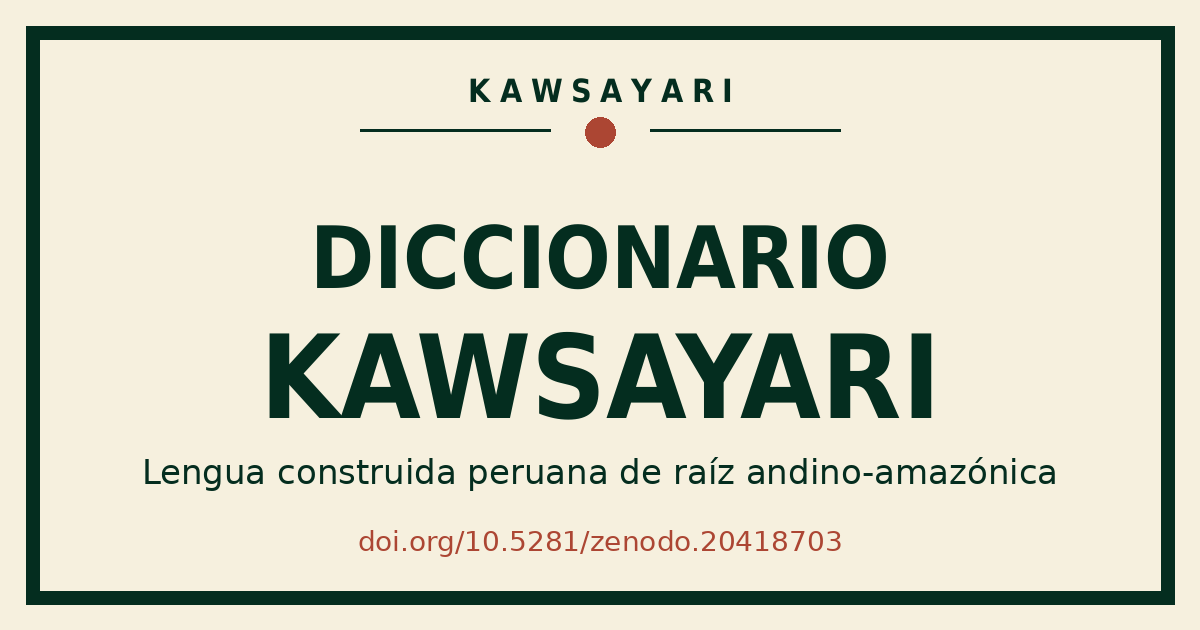
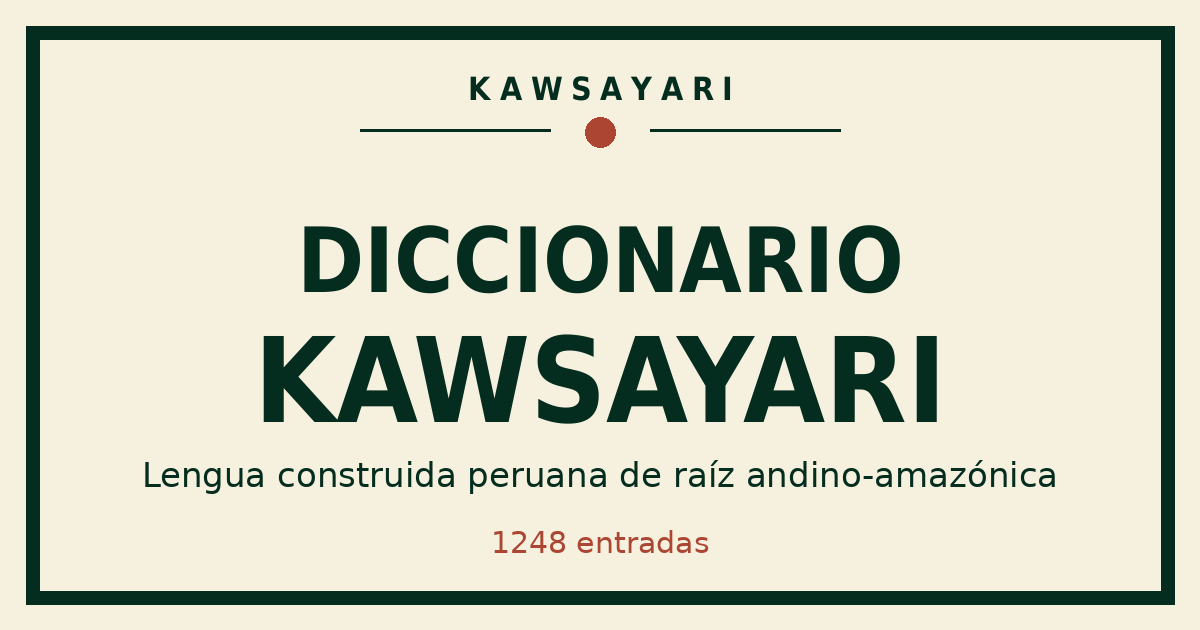
Corrección final del diccionario completo

diff --git a/assets/style.css b/assets/style.css
@@ -1,44 +1,51 @@
 
-:root{--green:#042d1f;--cream:#f6f0de;--paper:#fffaf0;--red:#ac4633;--muted:#69766e}
+:root{--green:#042d1f;--cream:#f6f0de;--paper:#fffaf0;--red:#ac4633;--muted:#69766e;--line:rgba(4,45,31,.20)}
 *{box-sizing:border-box}
 html{scroll-behavior:smooth}
 body{margin:0;background:var(--cream);color:var(--green);font-family:Inter,ui-sans-serif,system-ui,-apple-system,BlinkMacSystemFont,"Segoe UI",Arial,sans-serif;line-height:1.55}
 body:before{content:"";position:fixed;inset:0;pointer-events:none;background:radial-gradient(circle at 60% 0%,rgba(172,70,51,.05),transparent 32%),linear-gradient(rgba(4,45,31,.025) 1px,transparent 1px);background-size:auto,100% 72px}
 a{color:var(--green);text-underline-offset:4px}
-.wrap{width:min(1060px,calc(100% - 36px));margin:0 auto}
-.header{position:sticky;top:0;z-index:20;background:rgba(246,240,222,.92);backdrop-filter:blur(14px);border-bottom:1px solid rgba(4,45,31,.14)}
+.wrap{width:min(1120px,calc(100% - 36px));margin:0 auto}
+.header{position:sticky;top:0;z-index:20;background:rgba(246,240,222,.94);backdrop-filter:blur(14px);border-bottom:1px solid rgba(4,45,31,.14)}
 .nav{min-height:72px;display:flex;justify-content:space-between;align-items:center;gap:20px}
 .brand{text-decoration:none;font-weight:900;letter-spacing:.23em;font-size:15px}
 .navlinks{display:flex;gap:22px;align-items:center;font-size:14px;font-weight:700}
 .navlinks a{text-decoration:none}
 .btn{display:inline-flex;justify-content:center;align-items:center;min-height:44px;padding:0 18px;border:2px solid var(--green);background:var(--green);color:var(--cream);text-decoration:none;font-weight:850}
 .btn.secondary{background:transparent;color:var(--green)}
-.hero{min-height:calc(100vh - 72px);display:grid;place-items:center;padding:58px 0}
-.poster{width:min(720px,100%);min-height:780px;border:18px solid var(--green);background:var(--cream);padding:54px 34px 46px;text-align:center;display:flex;flex-direction:column;justify-content:space-between;box-shadow:0 24px 80px rgba(4,45,31,.08)}
+.hero{padding:78px 0 64px}
+.poster{border:18px solid var(--green);background:var(--cream);padding:56px 34px 52px;text-align:center;box-shadow:0 24px 80px rgba(4,45,31,.08)}
 .kicker{font-size:14px;letter-spacing:.34em;font-weight:900;text-transform:uppercase}
 .rule{width:min(520px,72%);height:1px;background:var(--green);margin:22px auto;position:relative}
 .rule:after{content:"";width:13px;height:13px;background:var(--red);border-radius:50%;position:absolute;left:50%;top:50%;transform:translate(-50%,-50%);box-shadow:0 0 0 11px var(--cream)}
-.hero-title{font-size:clamp(52px,12vw,126px);line-height:.9;letter-spacing:-.055em;text-transform:uppercase;margin:50px 0 18px;font-weight:950}
-.hero-title .num{display:block;font-size:1.25em}
-.hero-sub{font-size:clamp(18px,3vw,30px);max-width:560px;margin:30px auto 0}
-.emblem{width:220px;height:220px;border:8px solid var(--green);border-radius:50%;margin:46px auto 22px;position:relative;overflow:hidden}
-.emblem:before{content:"";position:absolute;inset:16px 50% 16px 16px;background:var(--green);border-radius:200px 0 0 200px}
-.emblem:after{content:"";position:absolute;width:52px;height:52px;background:var(--cream);border:18px solid var(--green);border-radius:50%;left:50%;top:50%;transform:translate(-50%,-50%)}
-.emblem .bar{position:absolute;height:10px;background:var(--green);left:42px;right:42px;top:104px}
-.section{padding:86px 0;border-top:1px solid rgba(4,45,31,.15)}
+.hero-title{font-size:clamp(58px,12vw,132px);line-height:.9;letter-spacing:-.055em;text-transform:uppercase;margin:52px 0 24px;font-weight:950}
+.hero-sub{font-size:clamp(18px,3vw,30px);max-width:760px;margin:0 auto}
+.meta{display:grid;grid-template-columns:repeat(3,1fr);gap:1px;border:1px solid var(--line);background:var(--line);margin-top:46px;text-align:left}
+.meta div{background:var(--paper);padding:18px}
+.meta span{display:block;color:var(--muted);font-size:12px;text-transform:uppercase;letter-spacing:.12em;font-weight:850}
+.meta strong{font-size:20px}
+.section{padding:78px 0;border-top:1px solid rgba(4,45,31,.15)}
 .grid{display:grid;grid-template-columns:.85fr 1.15fr;gap:62px;align-items:start}
 h1,h2,h3{letter-spacing:-.045em;line-height:1}
 h2{font-size:clamp(40px,5vw,72px);margin:0 0 18px;text-transform:uppercase}
+h3{font-size:clamp(25px,3vw,38px);margin:40px 0 14px}
 .lead{font-size:clamp(19px,2.1vw,25px);max-width:760px}
-.card{background:var(--paper);border:1px solid rgba(4,45,31,.20);padding:30px}
-.words{display:grid;gap:0;border-top:1px solid rgba(4,45,31,.2)}
-.word{display:grid;grid-template-columns:220px 1fr;gap:22px;padding:22px 0;border-bottom:1px solid rgba(4,45,31,.2)}
-.word b{display:block;font-size:34px;line-height:1;letter-spacing:-.05em;text-transform:uppercase}
-.word small{display:block;color:var(--red);margin-top:8px;font-weight:800}
-.word p{margin:0}
-.footer{background:var(--green);color:var(--cream);padding:42px 0}
-.footer a{color:var(--cream)}
+.card{background:var(--paper);border:1px solid var(--line);padding:30px}
+.searchbar{position:sticky;top:72px;z-index:15;background:rgba(246,240,222,.96);border-top:1px solid var(--line);border-bottom:1px solid var(--line);padding:18px 0}
+.searchbox{display:grid;grid-template-columns:1fr auto;gap:12px}
+input[type="search"]{width:100%;min-height:52px;border:2px solid var(--green);background:var(--paper);color:var(--green);font-size:18px;padding:0 16px;font:inherit}
+.count{display:flex;align-items:center;justify-content:center;min-width:140px;border:2px solid var(--green);font-weight:900;background:var(--green);color:var(--cream)}
+.alpha{display:flex;flex-wrap:wrap;gap:7px;margin-top:14px}
+.alpha a{font-size:13px;font-weight:850;text-decoration:none;border:1px solid var(--line);padding:5px 8px;background:var(--paper)}
+.table-wrap{overflow:auto;border:1px solid var(--line);background:var(--paper)}
 table{width:100%;border-collapse:collapse;background:var(--paper)}
-th,td{border:1px solid rgba(4,45,31,.22);padding:14px 16px;text-align:left;vertical-align:top}
-th{background:var(--green);color:var(--cream)}
-@media(max-width:780px){.nav{padding:16px 0;align-items:flex-start}.navlinks{display:none}.poster{min-height:760px;border-width:14px}.hero-title{font-size:72px}.grid{grid-template-columns:1fr;gap:32px}.word{grid-template-columns:1fr}.section{padding:58px 0}}
+th,td{border-bottom:1px solid var(--line);padding:12px 14px;text-align:left;vertical-align:top}
+th{background:var(--green);color:var(--cream);position:sticky;top:0}
+td.term{font-weight:850;white-space:nowrap}
+.category-title{border-top:2px solid var(--green);padding-top:22px}
+.footer{background:var(--green);color:var(--cream);padding:42px 0;margin-top:40px}
+.footer a{color:var(--cream)}
+.small{font-size:13px;color:var(--muted)}
+@media(max-width:780px){
+  .nav{padding:16px 0}.navlinks{display:none}.poster{border-width:14px}.hero-title{font-size:72px}.grid{grid-template-columns:1fr;gap:32px}.section{padding:54px 0}.meta{grid-template-columns:1fr}.searchbox{grid-template-columns:1fr}.count{min-height:44px}.searchbar{top:0}td.term{white-space:normal}
+}

diff --git a/index.html b/index.html
@@ -1,18 +1,27 @@
 <!doctype html>
 <html lang="es"><head>
 <meta charset="utf-8"><meta name="viewport" content="width=device-width,initial-scale=1">
-<title>Diccionario Kawsayari: lengua construida peruana de raíz andino-amazónica</title><meta name="description" content="Kawsayari es una lengua construida peruana de raíz andino-amazónica, creada como obra cultural, lingüística y editorial por Adrián Fernando Campos Velit."><meta name="author" content="Adrián Fernando Campos Velit">
+<title>Diccionario Kawsayari: lengua construida peruana de raíz andino-amazónica</title><meta name="description" content="Diccionario Kawsayari, lengua construida peruana de raíz andino-amazónica, creada como obra cultural, lingüística y editorial por Adrián Fernando Campos Velit."><meta name="author" content="Adrián Fernando Campos Velit">
 <meta name="robots" content="index,follow,max-image-preview:large"><link rel="canonical" href="https://kawsayari.github.io/">
-<meta property="og:title" content="Diccionario Kawsayari: lengua construida peruana de raíz andino-amazónica"><meta property="og:description" content="Kawsayari es una lengua construida peruana de raíz andino-amazónica, creada como obra cultural, lingüística y editorial por Adrián Fernando Campos Velit."><meta property="og:type" content="website"><meta property="og:url" content="https://kawsayari.github.io/"><meta property="og:image" content="https://kawsayari.github.io/assets/og-kawsayari.png">
+<meta property="og:title" content="Diccionario Kawsayari: lengua construida peruana de raíz andino-amazónica"><meta property="og:description" content="Diccionario Kawsayari, lengua construida peruana de raíz andino-amazónica, creada como obra cultural, lingüística y editorial por Adrián Fernando Campos Velit."><meta property="og:type" content="website"><meta property="og:url" content="https://kawsayari.github.io/"><meta property="og:image" content="https://kawsayari.github.io/assets/og-kawsayari.png">
 <meta name="twitter:card" content="summary_large_image"><link rel="icon" href="assets/favicon.svg" type="image/svg+xml"><link rel="apple-touch-icon" href="assets/icon.png"><link rel="stylesheet" href="assets/style.css">
-<script type="application/ld+json">{"@context": "https://schema.org", "@type": "Book", "name": "Diccionario Kawsayari: lengua construida peruana de raíz andino-amazónica", "alternateName": ["Kawsayari", "Diccionario Kawsayari"], "description": "Kawsayari es una lengua construida peruana de raíz andino-amazónica, creada como obra cultural, lingüística y editorial por Adrián Fernando Campos Velit.", "author": {"@type": "Person", "name": "Adrián Fernando Campos Velit"}, "creator": {"@type": "Person", "name": "Adrián Fernando Campos Velit"}, "publisher": {"@type": "Person", "name": "Adrián Fernando Campos Velit"}, "datePublished": "2026-05-27", "inLanguage": "es", "genre": ["Diccionario", "Lengua construida", "Conlang", "Cultura peruana"], "license": "https://creativecommons.org/licenses/by/4.0/", "identifier": "https://doi.org/10.5281/zenodo.20418703", "url": "https://kawsayari.github.io/", "image": "https://kawsayari.github.io/assets/og-kawsayari.png"}</script></head><body>
-<header class="header"><div class="wrap nav"><a class="brand" href="index.html">KAWSAYARI</a><nav class="navlinks" aria-label="Navegación"><a href="index.html">Inicio</a><a href="diccionario.html">Diccionario</a><a href="manifiesto.html">Manifiesto</a><a href="citar.html">Citar</a><a class="btn" href="https://doi.org/10.5281/zenodo.20418703">DOI oficial</a></nav></div></header><main>
-<section class="hero"><div class="poster"><div><div class="kicker">Kawsayari</div><div class="rule"></div><h1 class="hero-title"><span class="num">5</span>Palabras<br>Básicas</h1><p class="hero-sub">Lengua construida peruana de raíz andino-amazónica</p></div><div><div class="emblem"><span class="bar"></span></div><p><a class="btn" href="https://doi.org/10.5281/zenodo.20418703">Abrir publicación oficial</a></p></div></div></section>
-<section class="section"><div class="wrap grid"><div><h2>Libro formal</h2><p class="lead">Diccionario Kawsayari es una publicación cultural y lingüística con DOI, ficha editorial, manifiesto y diccionario.</p></div><div class="card"><p><strong>Autor:</strong> Adrián Fernando Campos Velit</p><p><strong>DOI:</strong> <a href="https://doi.org/10.5281/zenodo.20418703">https://doi.org/10.5281/zenodo.20418703</a></p><p><strong>Licencia:</strong> Creative Commons Attribution 4.0 International.</p><p><strong>Alcance:</strong> lengua construida peruana de carácter intercultural; no sustituye ni representa oficialmente ninguna lengua originaria existente.</p></div></div></section>
-<section class="section"><div class="wrap"><h2>Palabras básicas</h2><div class="words">
-<div class="word"><div><b>Kawsayari</b><small>[kau-sa-ya-ri]</small></div><p>Vida que habla; voz de vida, territorio y comunidad.</p></div>
-<div class="word"><div><b>Sumaq</b><small>[su-maq]</small></div><p>Bello, bueno, armonioso; aquello que se percibe con belleza y equilibrio.</p></div>
-<div class="word"><div><b>Yaku</b><small>[ya-ku]</small></div><p>Agua; elemento vital, memoria del río y fuerza de la naturaleza.</p></div>
-<div class="word"><div><b>Llaqta</b><small>[lya-qta]</small></div><p>Ciudad, pueblo o comunidad; espacio colectivo donde se comparte vida.</p></div>
-<div class="word"><div><b>Sonqo</b><small>[son-qo]</small></div><p>Corazón; centro emocional, ánimo y fuerza interior.</p></div>
-</div></div></section></main><footer class="footer"><div class="wrap"><strong>KAWSAYARI</strong><p>Lengua construida peruana de raíz andino-amazónica. Obra de Adrián Fernando Campos Velit. DOI oficial: <a href="https://doi.org/10.5281/zenodo.20418703">https://doi.org/10.5281/zenodo.20418703</a>.</p></div></footer></body></html>
+<script type="application/ld+json">{"@context": "https://schema.org", "@type": "Book", "name": "Diccionario Kawsayari: lengua construida peruana de raíz andino-amazónica", "alternateName": ["Kawsayari", "Diccionario Kawsayari"], "description": "Diccionario Kawsayari, lengua construida peruana de raíz andino-amazónica, creada como obra cultural, lingüística y editorial por Adrián Fernando Campos Velit.", "author": {"@type": "Person", "name": "Adrián Fernando Campos Velit"}, "creator": {"@type": "Person", "name": "Adrián Fernando Campos Velit"}, "publisher": {"@type": "Person", "name": "Adrián Fernando Campos Velit"}, "datePublished": "2026-05-27", "inLanguage": "es", "genre": ["Diccionario", "Lengua construida", "Conlang", "Cultura peruana"], "license": "https://creativecommons.org/licenses/by/4.0/", "identifier": "https://doi.org/10.5281/zenodo.20418703", "url": "https://kawsayari.github.io/", "image": "https://kawsayari.github.io/assets/og-kawsayari.png"}</script></head><body>
+<header class="header"><div class="wrap nav"><a class="brand" href="index.html">KAWSAYARI</a><nav class="navlinks" aria-label="Navegación"><a href="index.html">Inicio</a><a href="diccionario.html">Diccionario completo</a><a href="manifiesto.html">Manifiesto</a><a href="citar.html">Citar</a><a class="btn" href="https://doi.org/10.5281/zenodo.20418703">DOI oficial</a></nav></div></header><main>
+<section class="hero">
+  <div class="wrap">
+    <div class="poster">
+      <div class="kicker">Kawsayari</div>
+      <div class="rule"></div>
+      <h1 class="hero-title">Diccionario<br>Kawsayari</h1>
+      <p class="hero-sub">Lengua construida peruana de raíz andino-amazónica</p>
+      <div class="meta">
+        <div><span>Autor</span><strong>Adrián Fernando Campos Velit</strong></div>
+        <div><span>Entradas</span><strong>1248</strong></div>
+        <div><span>Registro</span><strong>DOI oficial</strong></div>
+      </div>
+      <p style="margin-top:30px"><a class="btn" href="diccionario.html">Ver diccionario completo</a> <a class="btn secondary" href="https://doi.org/10.5281/zenodo.20418703">Abrir publicación oficial</a></p>
+    </div>
+  </div>
+</section>
+<section class="section"><div class="wrap grid"><div><h2>Obra formal</h2><p class="lead">Kawsayari es una lengua construida peruana de carácter intercultural, creada como obra cultural, lingüística y editorial.</p></div><div class="card"><p>El sitio reúne el diccionario completo en una versión web limpia, legible e indexable, con términos originales y significados organizados por campos semánticos.</p><p><strong>DOI:</strong> <a href="https://doi.org/10.5281/zenodo.20418703">https://doi.org/10.5281/zenodo.20418703</a></p></div></div></section>
+</main><footer class="footer"><div class="wrap"><strong>KAWSAYARI</strong><p>Lengua construida peruana de raíz andino-amazónica. Obra de Adrián Fernando Campos Velit. DOI oficial: <a href="https://doi.org/10.5281/zenodo.20418703">https://doi.org/10.5281/zenodo.20418703</a>.</p></div></footer></body></html>

diff --git a/manifiesto.html b/manifiesto.html
@@ -1,11 +1,11 @@
 <!doctype html>
 <html lang="es"><head>
 <meta charset="utf-8"><meta name="viewport" content="width=device-width,initial-scale=1">
-<title>Manifiesto Kawsayari</title><meta name="description" content="Declaración de alcance y manifiesto breve del proyecto Kawsayari."><meta name="author" content="Adrián Fernando Campos Velit">
+<title>Manifiesto Kawsayari</title><meta name="description" content="Declaración de alcance y manifiesto breve de Kawsayari."><meta name="author" content="Adrián Fernando Campos Velit">
 <meta name="robots" content="index,follow,max-image-preview:large"><link rel="canonical" href="https://kawsayari.github.io/manifiesto.html">
-<meta property="og:title" content="Manifiesto Kawsayari"><meta property="og:description" content="Declaración de alcance y manifiesto breve del proyecto Kawsayari."><meta property="og:type" content="website"><meta property="og:url" content="https://kawsayari.github.io/manifiesto.html"><meta property="og:image" content="https://kawsayari.github.io/assets/og-kawsayari.png">
+<meta property="og:title" content="Manifiesto Kawsayari"><meta property="og:description" content="Declaración de alcance y manifiesto breve de Kawsayari."><meta property="og:type" content="website"><meta property="og:url" content="https://kawsayari.github.io/manifiesto.html"><meta property="og:image" content="https://kawsayari.github.io/assets/og-kawsayari.png">
 <meta name="twitter:card" content="summary_large_image"><link rel="icon" href="assets/favicon.svg" type="image/svg+xml"><link rel="apple-touch-icon" href="assets/icon.png"><link rel="stylesheet" href="assets/style.css">
-<script type="application/ld+json">{"@context": "https://schema.org", "@type": "Book", "name": "Diccionario Kawsayari: lengua construida peruana de raíz andino-amazónica", "alternateName": ["Kawsayari", "Diccionario Kawsayari"], "description": "Kawsayari es una lengua construida peruana de raíz andino-amazónica, creada como obra cultural, lingüística y editorial por Adrián Fernando Campos Velit.", "author": {"@type": "Person", "name": "Adrián Fernando Campos Velit"}, "creator": {"@type": "Person", "name": "Adrián Fernando Campos Velit"}, "publisher": {"@type": "Person", "name": "Adrián Fernando Campos Velit"}, "datePublished": "2026-05-27", "inLanguage": "es", "genre": ["Diccionario", "Lengua construida", "Conlang", "Cultura peruana"], "license": "https://creativecommons.org/licenses/by/4.0/", "identifier": "https://doi.org/10.5281/zenodo.20418703", "url": "https://kawsayari.github.io/", "image": "https://kawsayari.github.io/assets/og-kawsayari.png"}</script></head><body>
-<header class="header"><div class="wrap nav"><a class="brand" href="index.html">KAWSAYARI</a><nav class="navlinks" aria-label="Navegación"><a href="index.html">Inicio</a><a href="diccionario.html">Diccionario</a><a href="manifiesto.html">Manifiesto</a><a href="citar.html">Citar</a><a class="btn" href="https://doi.org/10.5281/zenodo.20418703">DOI oficial</a></nav></div></header><main>
+<script type="application/ld+json">{"@context": "https://schema.org", "@type": "Book", "name": "Diccionario Kawsayari: lengua construida peruana de raíz andino-amazónica", "alternateName": ["Kawsayari", "Diccionario Kawsayari"], "description": "Diccionario Kawsayari, lengua construida peruana de raíz andino-amazónica, creada como obra cultural, lingüística y editorial por Adrián Fernando Campos Velit.", "author": {"@type": "Person", "name": "Adrián Fernando Campos Velit"}, "creator": {"@type": "Person", "name": "Adrián Fernando Campos Velit"}, "publisher": {"@type": "Person", "name": "Adrián Fernando Campos Velit"}, "datePublished": "2026-05-27", "inLanguage": "es", "genre": ["Diccionario", "Lengua construida", "Conlang", "Cultura peruana"], "license": "https://creativecommons.org/licenses/by/4.0/", "identifier": "https://doi.org/10.5281/zenodo.20418703", "url": "https://kawsayari.github.io/", "image": "https://kawsayari.github.io/assets/og-kawsayari.png"}</script></head><body>
+<header class="header"><div class="wrap nav"><a class="brand" href="index.html">KAWSAYARI</a><nav class="navlinks" aria-label="Navegación"><a href="index.html">Inicio</a><a href="diccionario.html">Diccionario completo</a><a href="manifiesto.html">Manifiesto</a><a href="citar.html">Citar</a><a class="btn" href="https://doi.org/10.5281/zenodo.20418703">DOI oficial</a></nav></div></header><main>
 <section class="section"><div class="wrap grid"><div><h2>Manifiesto</h2><p class="lead">Una lengua construida para imaginar el Perú desde otra voz.</p></div><div class="card"><p>Kawsayari nace para nombrar una identidad peruana contemporánea que reúne territorio, afecto, memoria, ciudad y comunidad en un vocabulario nuevo.</p><p>No busca reemplazar palabras existentes ni presentar como propio lo que pertenece a comunidades vivas. Su valor depende de su uso, su cuidado y su capacidad de generar comunidad.</p><p><strong>Kawsayari no se impone: se comparte.</strong></p></div></div></section>
 </main><footer class="footer"><div class="wrap"><strong>KAWSAYARI</strong><p>Lengua construida peruana de raíz andino-amazónica. Obra de Adrián Fernando Campos Velit. DOI oficial: <a href="https://doi.org/10.5281/zenodo.20418703">https://doi.org/10.5281/zenodo.20418703</a>.</p></div></footer></body></html>

diff --git a/citar.html b/citar.html
@@ -5,7 +5,7 @@
 <meta name="robots" content="index,follow,max-image-preview:large"><link rel="canonical" href="https://kawsayari.github.io/citar.html">
 <meta property="og:title" content="Cómo citar el Diccionario Kawsayari"><meta property="og:description" content="Citación sugerida del Diccionario Kawsayari."><meta property="og:type" content="website"><meta property="og:url" content="https://kawsayari.github.io/citar.html"><meta property="og:image" content="https://kawsayari.github.io/assets/og-kawsayari.png">
 <meta name="twitter:card" content="summary_large_image"><link rel="icon" href="assets/favicon.svg" type="image/svg+xml"><link rel="apple-touch-icon" href="assets/icon.png"><link rel="stylesheet" href="assets/style.css">
-<script type="application/ld+json">{"@context": "https://schema.org", "@type": "Book", "name": "Diccionario Kawsayari: lengua construida peruana de raíz andino-amazónica", "alternateName": ["Kawsayari", "Diccionario Kawsayari"], "description": "Kawsayari es una lengua construida peruana de raíz andino-amazónica, creada como obra cultural, lingüística y editorial por Adrián Fernando Campos Velit.", "author": {"@type": "Person", "name": "Adrián Fernando Campos Velit"}, "creator": {"@type": "Person", "name": "Adrián Fernando Campos Velit"}, "publisher": {"@type": "Person", "name": "Adrián Fernando Campos Velit"}, "datePublished": "2026-05-27", "inLanguage": "es", "genre": ["Diccionario", "Lengua construida", "Conlang", "Cultura peruana"], "license": "https://creativecommons.org/licenses/by/4.0/", "identifier": "https://doi.org/10.5281/zenodo.20418703", "url": "https://kawsayari.github.io/", "image": "https://kawsayari.github.io/assets/og-kawsayari.png"}</script></head><body>
-<header class="header"><div class="wrap nav"><a class="brand" href="index.html">KAWSAYARI</a><nav class="navlinks" aria-label="Navegación"><a href="index.html">Inicio</a><a href="diccionario.html">Diccionario</a><a href="manifiesto.html">Manifiesto</a><a href="citar.html">Citar</a><a class="btn" href="https://doi.org/10.5281/zenodo.20418703">DOI oficial</a></nav></div></header><main>
+<script type="application/ld+json">{"@context": "https://schema.org", "@type": "Book", "name": "Diccionario Kawsayari: lengua construida peruana de raíz andino-amazónica", "alternateName": ["Kawsayari", "Diccionario Kawsayari"], "description": "Diccionario Kawsayari, lengua construida peruana de raíz andino-amazónica, creada como obra cultural, lingüística y editorial por Adrián Fernando Campos Velit.", "author": {"@type": "Person", "name": "Adrián Fernando Campos Velit"}, "creator": {"@type": "Person", "name": "Adrián Fernando Campos Velit"}, "publisher": {"@type": "Person", "name": "Adrián Fernando Campos Velit"}, "datePublished": "2026-05-27", "inLanguage": "es", "genre": ["Diccionario", "Lengua construida", "Conlang", "Cultura peruana"], "license": "https://creativecommons.org/licenses/by/4.0/", "identifier": "https://doi.org/10.5281/zenodo.20418703", "url": "https://kawsayari.github.io/", "image": "https://kawsayari.github.io/assets/og-kawsayari.png"}</script></head><body>
+<header class="header"><div class="wrap nav"><a class="brand" href="index.html">KAWSAYARI</a><nav class="navlinks" aria-label="Navegación"><a href="index.html">Inicio</a><a href="diccionario.html">Diccionario completo</a><a href="manifiesto.html">Manifiesto</a><a href="citar.html">Citar</a><a class="btn" href="https://doi.org/10.5281/zenodo.20418703">DOI oficial</a></nav></div></header><main>
 <section class="section"><div class="wrap grid"><div><h2>Cómo citar</h2><p class="lead">Usa el DOI oficial para acceder a la publicación registrada.</p></div><div class="card"><p><strong>Citación sugerida</strong></p><p>Campos Velit, A. F. <em>Diccionario Kawsayari: lengua construida peruana de raíz andino-amazónica</em>. Zenodo. <a href="https://doi.org/10.5281/zenodo.20418703">https://doi.org/10.5281/zenodo.20418703</a></p><p><strong>Enlace oficial:</strong><br><a href="https://doi.org/10.5281/zenodo.20418703">https://doi.org/10.5281/zenodo.20418703</a></p></div></div></section>
 </main><footer class="footer"><div class="wrap"><strong>KAWSAYARI</strong><p>Lengua construida peruana de raíz andino-amazónica. Obra de Adrián Fernando Campos Velit. DOI oficial: <a href="https://doi.org/10.5281/zenodo.20418703">https://doi.org/10.5281/zenodo.20418703</a>.</p></div></footer></body></html>